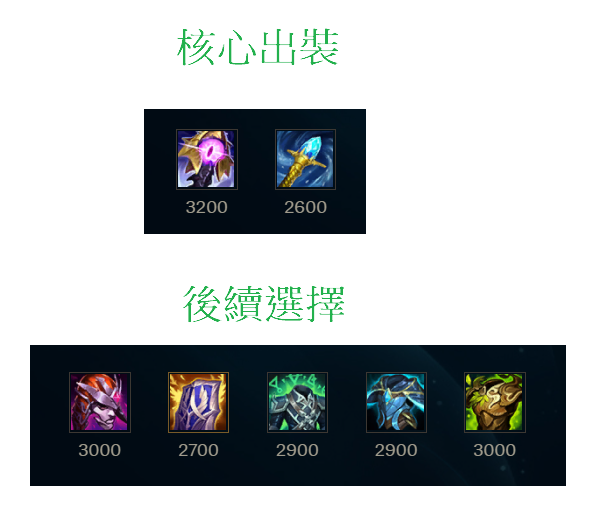
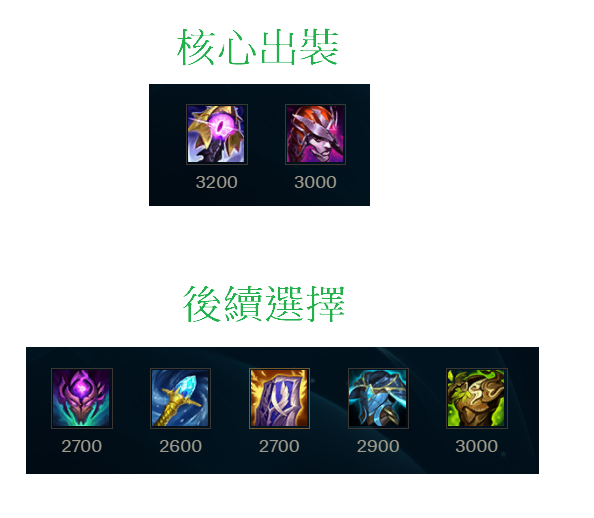
20220814_a

Changed region(s): [[0.0303, 0.6486, 0.9697, 0.9575], [0.2424, 0.1544, 0.6364, 0.4633]]

diff --git a/LOL.md b/LOL.md
@@ -360,13 +360,22 @@
     ![](劍聖/出裝.png)
   + ### NOTE
         主Q副E
+
+        前期弱，不要腦衝，兩件套以前盡量不要太衝
+
         最後一定是這6件裝，只是順序可變
         第一件一定出破敗
-        第二件出智慧末刃或死舞，看對面陣容
-        第三件
+        第二件出日炎
+        第三件出智慧末刃或死舞，看對面陣容
 
-        連招
-        E-Q
+        Q: 是打指定的目標及其附近的敵人，最後落點會是指定目標的附近
+        也就是可以Q小兵，然後小兵附近的敵人也會被傷害到，但最後落點會是小兵的附近
+        Q盡量用來收尾，一開始可以拿來當poke用
+
+        W: 治療，可重置普攻
+
+        不要Q起手，要打團盡量E+平A起手
+        打半條血以上的敵人，開大過去平A起手，到斬殺線再Q       
 
 + ## 希瓦娜(龍女)
   + ### 天賦
@@ -754,13 +763,19 @@
     ![](塔隆/出裝.png)
   + ### NOTE
         主W副Q
+
         主要就是快速疊滿三層印記打出效果
         先手丟W，等W飛回來後，敵方身上掛兩層被動
-        再用Q去打第三層被動
+        情況許可再用Q去打第三層被動
+
+        一般都是用W蹭傷害，如果太遠可以Q小兵位移再用W蹭傷害
 
         連招
         W-R-Q-A
         要注意連招的R一定要刮到，這樣才可以到三層被動
+
+        雪球-R-Q-W
+        利用雪球進場，開大隱身，往前Q目標，再加W
 
 + ## 墨菲特(石頭人)
   + ### 天賦
@@ -824,14 +839,21 @@
     ![](薩科/出裝.png)
   + ### NOTE
         主E副W
+
         收割英雄
         很吃裝備，盡量搶人頭
-        小丑在釋放大招產生分身的一段時間是無敵的，可躲死哥大
-        按住Alt可以操作分身
-        E盡量在敵方殘血時用
-        盡量利用被刺觸發被動
-        E是有點距離投擲式的技能
-        可用Q-R進場
+
+        不太需要閃現，有問題Q走就好
+
+        P: 被刺傷害更高，在背面跟斜側面都能觸發
+        Q: 小段位移+隱形2.5秒，隱形期間攻擊敵方傷害會比較高
+        W: 製造一個盒子，盒子能擋技能，2秒後會變成40秒的陷阱
+        E: 中距離的丟丟攻擊，被刺一樣會比較痛
+        R: 創造一個18秒的分身，可用Alt來操作分身，分身死後會變成三個盒盒
+        產生分身的一段時間是無敵的，可躲死哥大
+
+        基本玩法
+        Q隱形到敵方身後放W，然後一直追著敵方平A到殘血，用E收割
 
 + ## 巴德
   + ### 天賦
@@ -1790,4 +1812,85 @@
         然後，等到二段Q倒數，按二段Q，再A一下
         E-W-E
         W-R
+
++ ## 關(格溫、靈羅娃娃)
+  + ### 天賦
+    ![](關/天賦.png)
+  + ### 召喚師技能
+    ![](關/召喚師技能.png)
+  + ### 出門裝
+    ![](關/出門裝.png)
+  + ### 出裝
+    ![](關/出裝.png)
+  + ### NOTE
+        主Q副
+
+        前期不強，後期強
+        跟卡蜜兒一樣兩件套後才開始遊戲
+
+        Q: 疊幾層就會剪幾下，主力輸出，最高疊到4層，中央區域會是真實傷害
+        W: 防禦性質
+        E: 位移+強化攻擊4秒，時間內只要攻擊命中敵方一次，就能減CD，平A敵方小兵也算
+        R: 三段飛針，基本上與W綁定使用，要用R時要有W保護才行，這樣多段R才比較能放得出來
+
+
+        連招
+        Q-E
+        不要E-Q啊，至少3層以上再放
+
+        W-R
+        安穩放出三段大招
+
++ ## 逆命(卡牌)
+  + ### 天賦
+    ![](逆命/天賦.png)
+  + ### 召喚師技能
+    ![](逆命/召喚師技能.png)
+  + ### 出門裝
+    ![](逆命/出門裝.png)
+  + ### 出裝
+    ![](逆命/出裝.png)
+  + ### NOTE
+        主W副Q
+
+        此套不要當主C啊，當當工具人，噁心人的
+
+        兩件套後才開始發力
+
+        重點是移動+移動+移動然後噁心人
+
++ ## 索娜(琴女)
+  + ### 天賦
+    ![](索娜/天賦.png)
+  + ### 召喚師技能
+    ![](索娜/召喚師技能.png)
+  + ### 出門裝
+    ![](索娜/出門裝.png)
+  + ### 出裝
+    ![](索娜/出裝.png)
+  + ### NOTE
+        主Q副W
+
+        基本上，目前非常非常非常不建議玩，debuff太嚴重了
+
+        2022/08/14
+        debuff
+        造成傷害95%
+        治療效果60%
+        護盾效果60%
+        範圍傷害對小兵造成75%
+
+        所以我放棄人家玩得治療輔助模式，當法師玩
+
++ ## 阿姆姆(哭啊、木乃伊)
+  + ### 天賦
+    ![](阿姆姆/天賦.png)
+  + ### 召喚師技能
+    ![](阿姆姆/召喚師技能.png)
+  + ### 出門裝
+    ![](阿姆姆/出門裝.png)
+  + ### 出裝
+    ![](阿姆姆/出裝.png)
+  + ### NOTE
+
 
